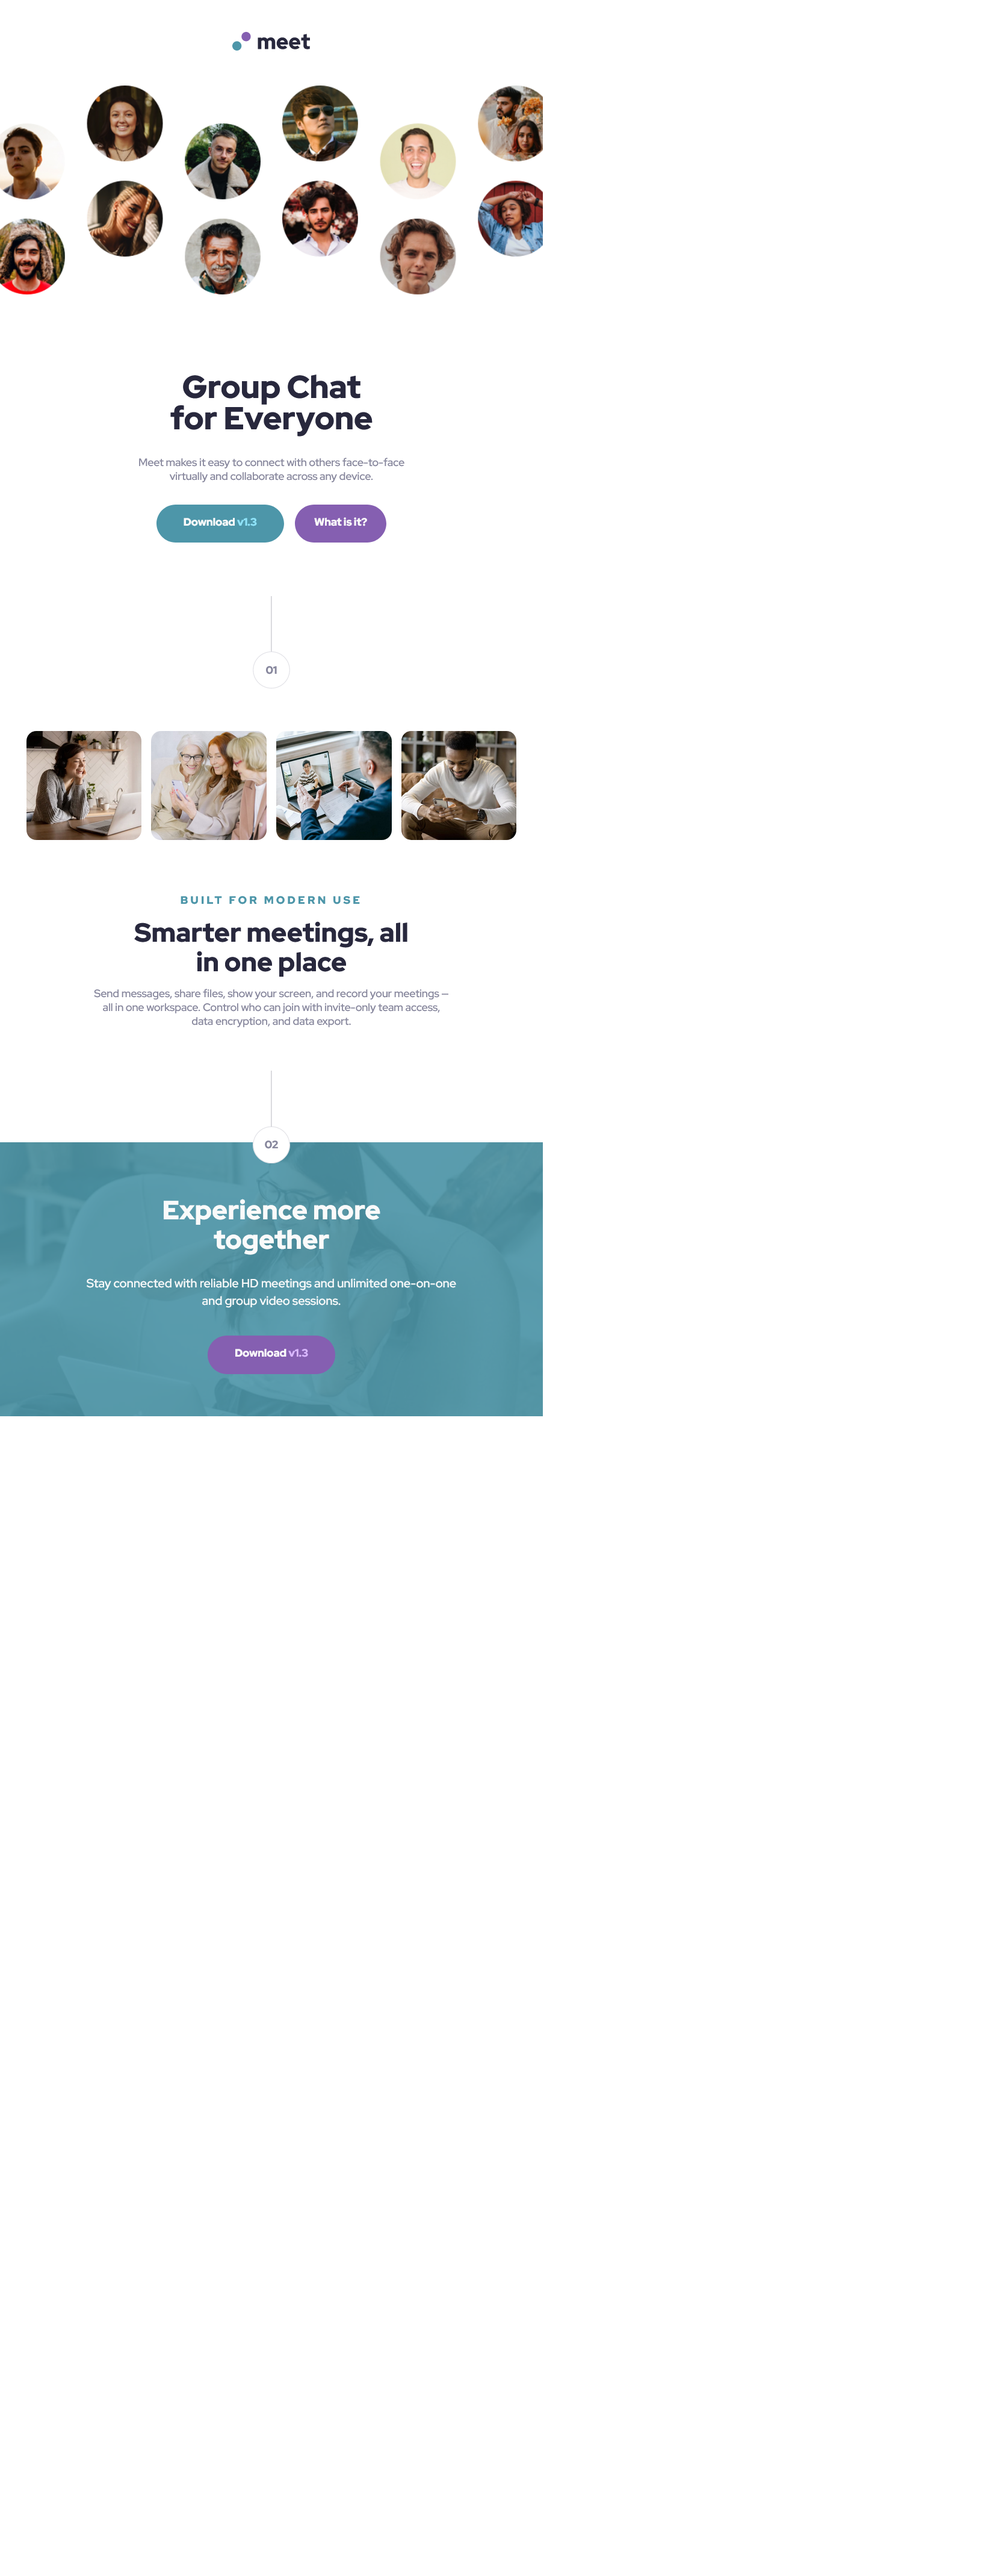
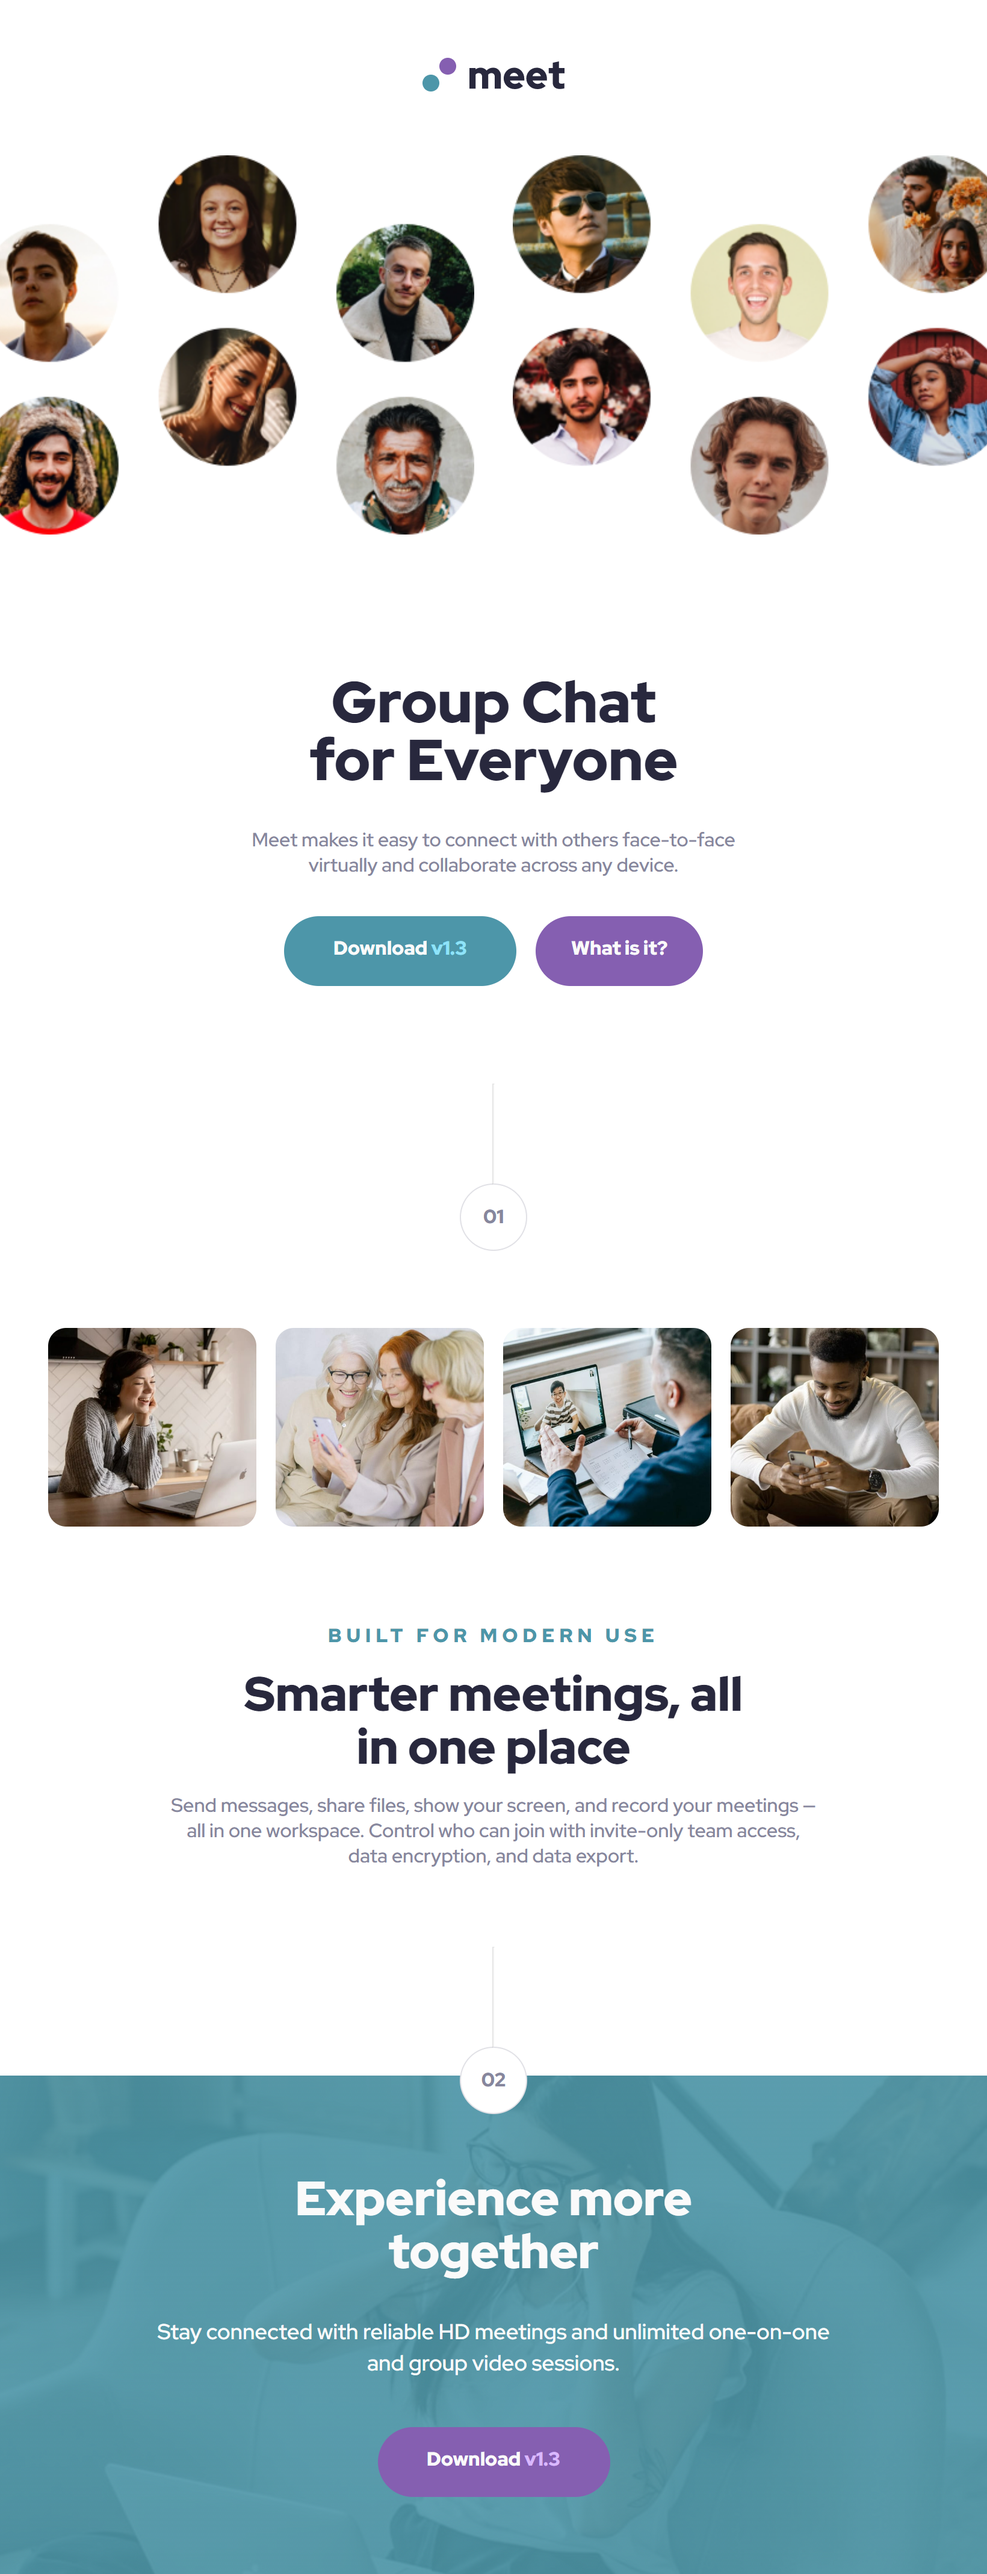
...

diff --git a/README.md b/README.md
@@ -34,10 +34,6 @@ Tablet-Version
 
 ![Tablet-Version](/assets/ss_tablet.png)
 
-Mobile-Version
-
-![Mobile-Version](/assets/ss_mobile.png)
-
 ### Links
 
 - Solution URL: [Add solution URL here](https://www.frontendmentor.io/solutions/responsive-landing-page-html-css-and-flexbox-Ff7SdDDks5)
